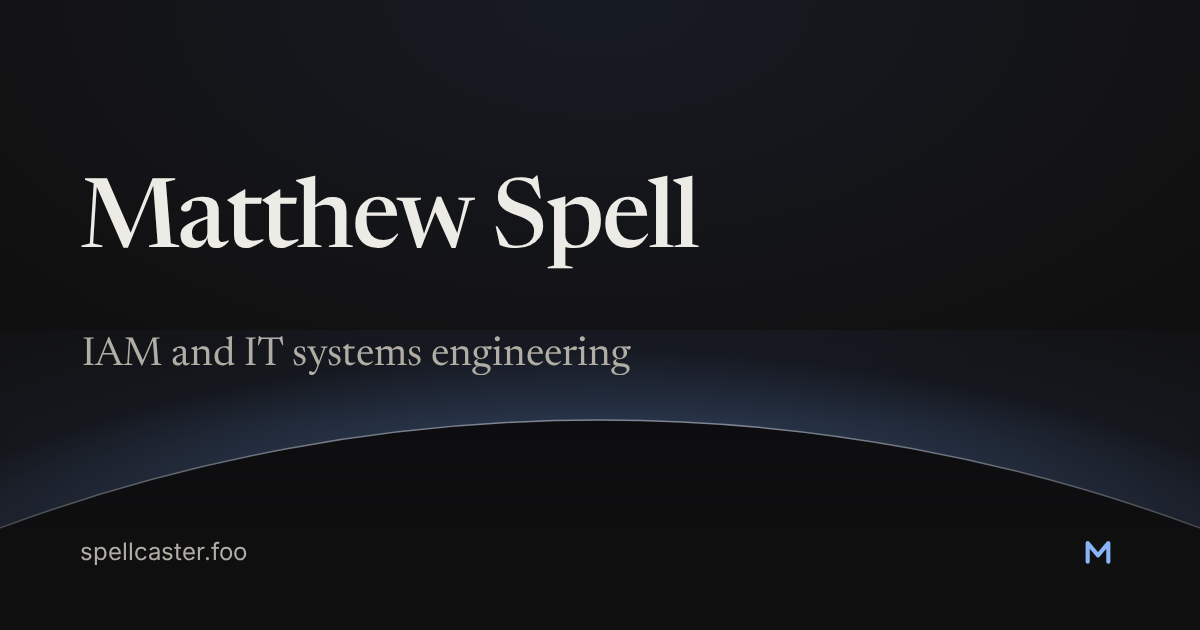
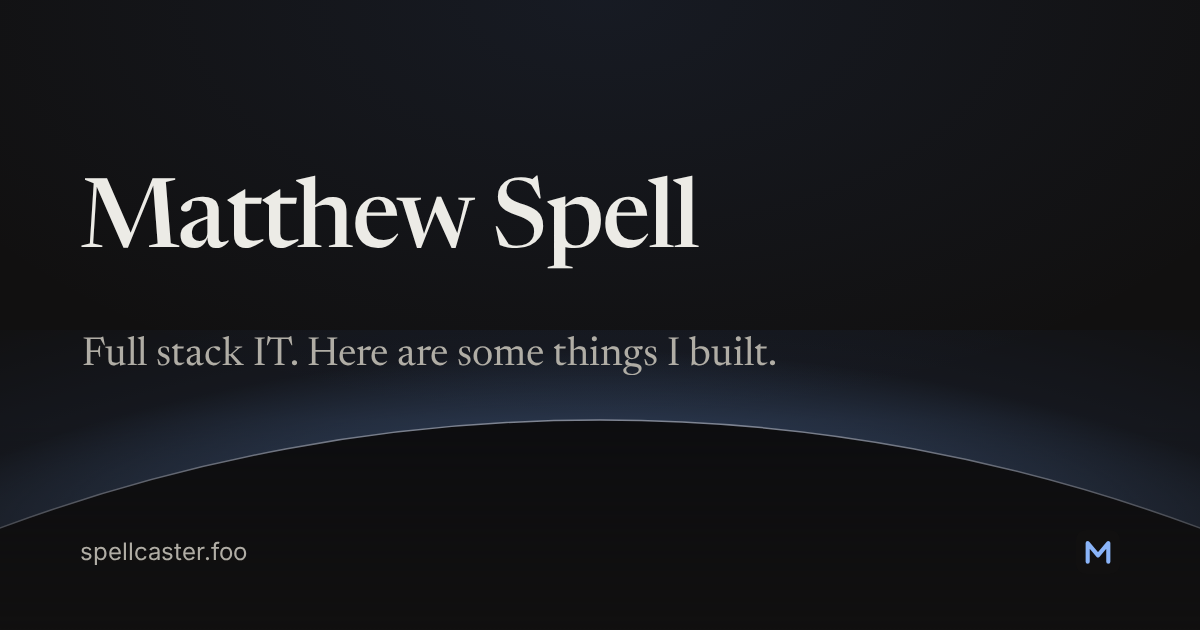
New pitch: "Full stack IT. Here are some things I built."
Matthew's wording. The meta description is now its own line in site.ts, since the
pitch is shorter than a description should be, and the social image and its alt text
say "full stack IT" too.

Changed region(s): [[0.0617, 0.5127, 0.6475, 0.6032]]

diff --git a/src/data/site.ts b/src/data/site.ts
@@ -10,7 +10,10 @@ export const site = {
   name: 'Matthew Spell',
   // The optional line under the name. null hides it; it never blocks a launch.
   jobTitle: null as string | null,
-  pitch: "I work in identity and IT. These are a few things I've built.",
+  pitch: 'Full stack IT. Here are some things I built.',
+  // The home page's meta description (search results, link previews). Not shown on the page.
+  description:
+    'Matthew Spell does full stack IT. Here are some things he built, with the code on GitHub.',
   email: 'hello@spellcaster.foo',
   github: 'https://github.com/matt-spellcaster',
   linkedin: 'https://www.linkedin.com/in/matthew-spell-065b9483/' as string | null,

diff --git a/scripts/og-images.ts b/scripts/og-images.ts
@@ -66,7 +66,7 @@ const pages: Record<string, string> = {
     </style>
     <div class="sky"></div>${horizon}
     <h1>Matthew Spell</h1>
-    <p>IAM and IT systems engineering</p>
+    <p>Full stack IT. Here are some things I built.</p>
     <div class="url">spellcaster.foo</div>${mark}`,
 
   'okta-access-review-aws': `<style>${base}
